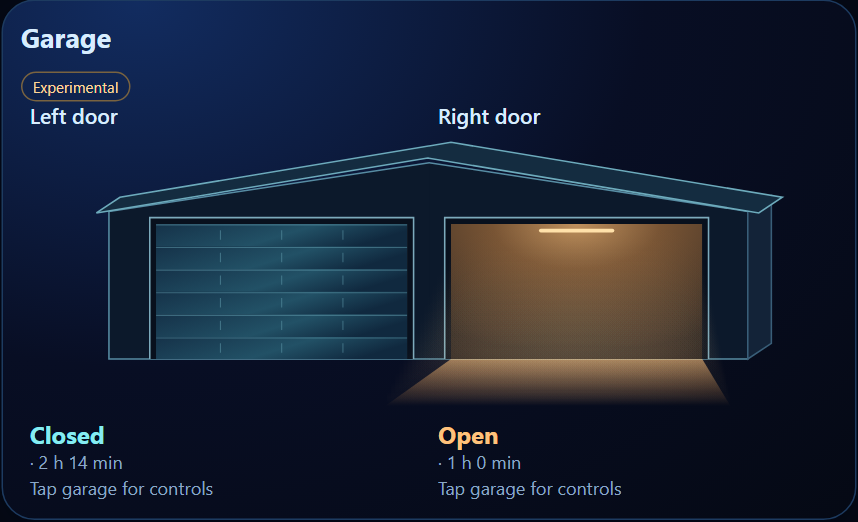
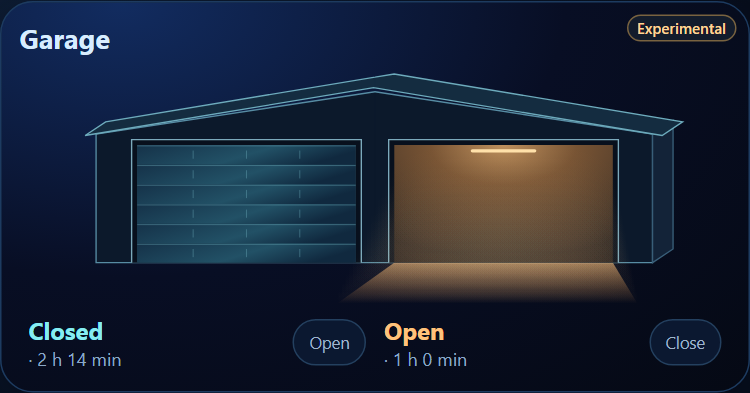
Show every roller shade and garage layout in the README

diff --git a/README.md b/README.md
@@ -24,7 +24,21 @@
 
 **Experimental** · See which garage door is still open, or how far the living room shade is raised. New in **v0.0.8**, Roller shade lets you frame a photo of your own outdoor view behind sheer or blackout fabric.
 
-<a href="https://magnusoverli.github.io/gleam-card/cover/"><img src="docs/images/cover.png" width="480" alt="Double garage with the left door closed and the right door open, casting warm light onto the driveway."></a>
+### Roller shade
+
+| Normal | Compact |
+| --- | --- |
+| <img src="docs/images/cover-shade-normal.png" width="400" alt="Normal roller shade with sage fabric and a readout of 40% open."> | <img src="docs/images/cover-shade-compact.png" width="197" alt="The same roller shade at 40% open in a half-width dashboard tile."> |
+
+### Garage door
+
+| Normal | Compact |
+| --- | --- |
+| <img src="docs/images/cover-garage-normal.png" width="400" alt="Normal garage with a closed sectional door and an Open button."> | <img src="docs/images/cover-garage-compact.png" width="197" alt="Closed garage door in the half-width Compact layout."> |
+
+**Double** · Two independently controlled doors under one roof.
+
+<a href="https://magnusoverli.github.io/gleam-card/cover/"><img src="docs/images/cover.png" width="400" alt="Double garage with the left door closed and the right door open, casting warm light onto the driveway."></a>
 
 [**Try Gleam Cover →**](https://magnusoverli.github.io/gleam-card/cover/) · [Cover settings](docs/cover.md)
 
